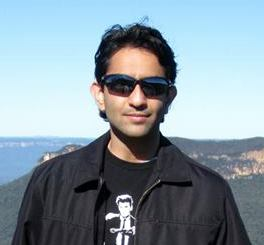
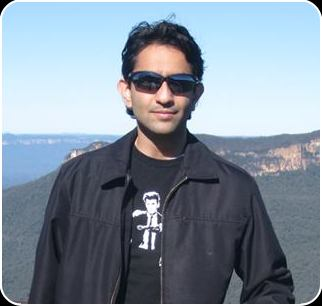
added Codes.html and supporting images

diff --git a/codes.html b/codes.html
@@ -6,7 +6,7 @@
 -->
 <html>
 	<head>
-		<title>R.P. Direct Imaging</title>
+		<title>R.P. WFIRST-CGI</title>
 		<meta http-equiv="Content-Type" content="text/html; charset=utf-8" />
 		<meta name="description" content="" />
 		<meta name="keywords" content="" />
@@ -38,13 +38,12 @@
 				<!-- Header -->
 				<div id="header" class="skel-panels-fixed">
 						<div id="logo">
-						  <h1><a href="index.html"> Rahul I. Patel: Direct Imaging</a></h1>
+							<h1><a href="index.html"> Rahul I. Patel: CODES</a></h1>
 
 					  </div>
 						<nav id="nav">
 							<ul>
 								<li><a href="Research.html">Research</a></li>
-                                <li><a href="codes.html">Codes</a></li>
 								<li><a href="files/Rahul_CV.pdf" target="_new">C.V.</a></li>
                                 <li><a href="#contactus">Contact Me</a></li>
                            </ul>
@@ -58,20 +57,21 @@
 		
 							<!-- Sidebar -->
 							<div id="sidebar" class="4u">
-							<section>
+							<!--	<section>
 									<header class="major">
-										<h2>Related Papers & Presentations</h2>
+										<h2>Related Papers</h2>
 									</header>
 	
 								<!--	<div class="row half"> -->
 									<!--	<section class="6u"> -->
-											<ul class="default">
-												<li>""<a href=""></a></li><hr>         
+								<!--			<ul class="default">
+												<li>Sensitive ID of Warm Debris Disks Using WISE; Patel,+ 2014 <a href="http://adsabs.harvard.edu/abs/2014ApJS..212...10P">Paper</a></li><hr>         
 											</ul>
 								<!--		</section> -->
 								<!--	</div> -->
 
-								</section>
+							<!--	</section>  -->
+
 								<section>
 									<header class="major">
 										<h2>Resources</h2>
@@ -79,13 +79,17 @@
 								<!--	<div class="row half"> -->
 									<!--	<section class="6u"> -->
 											<ul class="default">
-												<li><a href="http://www.astro.caltech.edu/~dmawet/new-caltech-group/people-under-const.html" target="_new">Dimitri Mawet's Exoplanet Group</a></li>
-                                                <li><a href="" target="_new">WFIRST Direct Imaging</a></li>
-                                                <li>
-                      						</ul>
+												<li><a href="" target="_new"></a></li>
+     										</ul>
 								<!--		</section> -->
 								<!--	</div> -->
 								</section>
+
+                                <section>
+									<header class="major">
+
+								</section>
+
 
 							
 							</div>
@@ -93,27 +97,25 @@
 						  <!-- Content -->
 							<div id="content" class="8u skel-cell-important">
 								<section>
+	
 								  <header class="major">
-										<h2>Untwinkling The Stars!</h2><br>
+										<h3>I am working on making large pieces of software/tools public in the hopes others can make use of them. Any feedback is appreciated.</h3><br>                        <hr style="height:3px;border:none;color:#C0C0C0;background-color:#C0C0C0;" /><br>
+                               
+                                        <h2>Twinkle</h2>
 								  </header>
-									
-                                     <p>
-									
+                                     <p>I am working on a Python spectral energy distribution characterization (SED) code. Basically, figure out the temperature and rough radius properties of a star from measured fluxes, as well as characterize any excess flux from dust. Check it out at my github repository: <a href="http://www.github.com/astropatel/twinkle">www.github.com/astropatel/twinkle</a>. FYI: Still under development.
+									  <a href="github.com/astropatel/twinkle"><img src="images/HIP35567.png" width="435" height="333" align="left" longdesc="http://github.com/astropatel/twinkle"></a>
 							  </section>
                               
                               
-                              		<section>
-								  <header class="major">
-										<h2>Direct Imaging Projects</h2><br>
-								  </header>
-                                  
-					  		  </section>
-                              
-                             
+                              	
+
                               
 							</div>
 						</div>
 					</div>
+
+
 				<!-- /Page -->
 
 				<!-- Main -->

diff --git a/index.html b/index.html
@@ -44,6 +44,7 @@
 						<nav id="nav">
 							<ul>
 								<li><a href="Research.html">Research</a></li>
+                                <li><a href="codes.html">Codes</a></li>
 								<li><a href="files/Rahul_CV.pdf" target="_new">C.V.</a></li>
                                 <li><a href="#contactus">Contact Me</a></li>
 							</ul>
@@ -54,8 +55,8 @@
 					<div id="banner" class="container">
 						<section>
                         
-							<img src="images/RPatel_SB.jpg" align='left' width="264" height="245" >
-<p>Hi there! I am a postdoctoral researcher in astronomy at <a href="http://www.ipac.caltech.edu/" target="_new">IPAC</a> on the campus of Caltech. I am interested in studying planetary systems outside our Solar System, with data from ground and space-based telescopes. (Debris disks, adaptive optics) [under construction].</p>
+							<img src="images/me.jpg" align='left' width="264" height="245" >
+<p>Hi there! I am an astrophysics postdoctoral researcher at <a href="http://www.ipac.caltech.edu/" target="_new">IPAC</a> on the campus of Caltech. I am an exoplaneteer and study exoplanet systems and their environments with high-contrast imaging systems and space-based data.</p>
 				<!--			<a href="#" class="button medium">Read More</a> -->
 						</section>
                         <hr>

diff --git a/Research.html b/Research.html
@@ -35,7 +35,8 @@
 					  </div>
 						<nav id="nav">
 							<ul>
-								<li><a href="Research.html">Research</a></li>
+                                <li><a href="codes.html">Codes</a></li>
+								<li><a href="files/Rahul_CV.pdf" target="_new">C.V.</a></li>
                                 <li><a href="#contactus">Contact Me</a></li>
 							</ul>
 						</nav>

diff --git a/wfirstcgi.html b/wfirstcgi.html
@@ -44,6 +44,7 @@
 						<nav id="nav">
 							<ul>
 								<li><a href="Research.html">Research</a></li>
+                                <li><a href="codes.html">Codes</a></li>
 								<li><a href="files/Rahul_CV.pdf" target="_new">C.V.</a></li>
                                 <li><a href="#contactus">Contact Me</a></li>
                            </ul>

diff --git a/wisedisks.html b/wisedisks.html
@@ -44,6 +44,7 @@
 						<nav id="nav">
 							<ul>
 								<li><a href="Research.html">Research</a></li>
+                                <li><a href="codes.html">Codes</a></li>
 								<li><a href="files/Rahul_CV.pdf" target="_new">C.V.</a></li>
                                 <li><a href="#contactus">Contact Me</a></li>
                            </ul>
